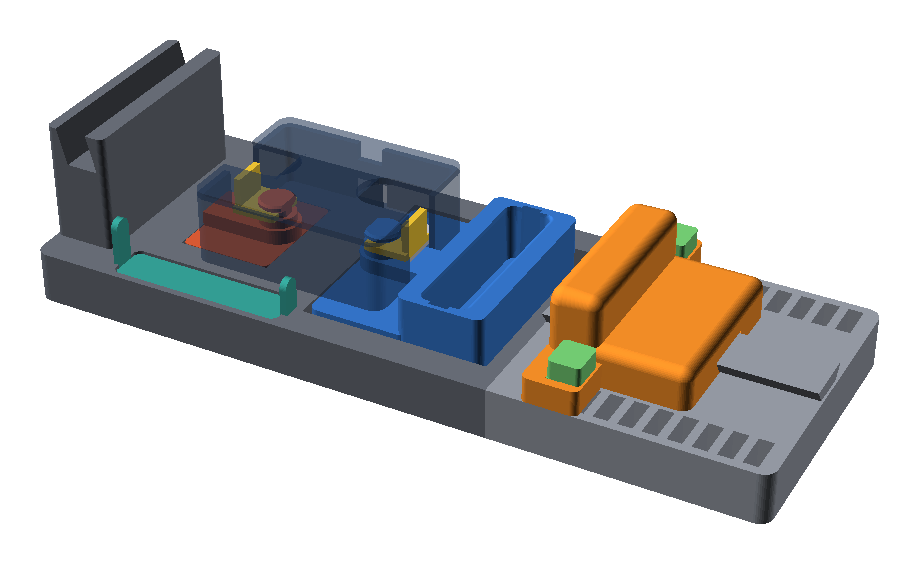
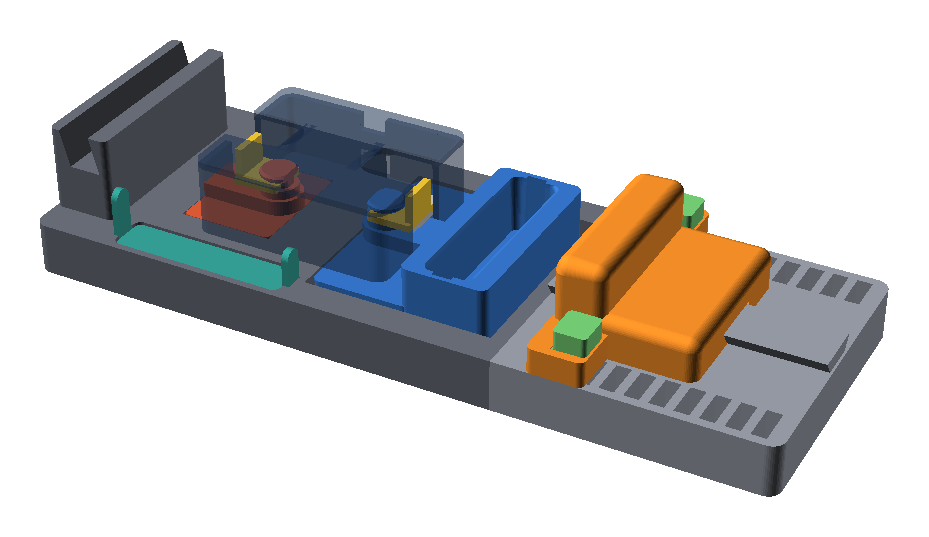
feat: lower the phone slot floor to Z = 15 mm
The stand is now 37 mm tall instead of 52 mm. The case hides the bottom of the phone only from viewpoints below 18 degrees elevation; an assertion keeps that below 20 degrees.

diff --git a/docs/src/design/index.md b/docs/src/design/index.md
@@ -79,9 +79,10 @@ When not in use, the stoppers stack in a 16 mm-deep well in the deck, on the
 
 ## Phone stand
 
-A 52 mm-tall stand across the far (−X) end of the base holds a phone running
-the Crimpdeq app. Its slot floor is 2 mm above the top of the case, so the
-case never hides the bottom of the screen. The slot is 14 mm wide, for a
+A 37 mm-tall stand across the far (−X) end of the base holds a phone running
+the Crimpdeq app. Its slot floor is at Z = 15 mm, 13 mm below the top of the
+case and about 40 mm behind it, so the case only hides the bottom of the phone
+when seen from less than 18° above the table. The slot is 14 mm wide, for a
 phone up to about 13 mm thick in its case, and 16 mm deep with a flat floor.
 It leans 15° away from the user, so the screen faces the hand, and is open at
 both sides, so a phone fits in portrait or landscape. The stand is 90 mm

diff --git a/AGENTS.md b/AGENTS.md
@@ -50,8 +50,9 @@
   compression under load.
 - Preserve switch and USB access on the open +Y side of the base.
 - Keep the tilted phone slot in its stand at the far (-X) end of the base,
-  with the slot floor above the case top, finger room by the stopper well,
-  outside the load path and clear of the hand at every rest position.
+  with its floor at Z = 15 mm so the case hides the phone only from viewpoints
+  below 20° elevation, finger room by the stopper well, outside the load path
+  and clear of the hand at every rest position.
 - Keep every part printable without supports.
 - Keep the base, anchor, grip, clips, rest, keys, phone and case collision-free
   except for explicitly modelled contact surfaces.

diff --git a/docs/src/build/stoppers-and-phone.md b/docs/src/build/stoppers-and-phone.md
@@ -25,9 +25,9 @@ When not in use, stack both stoppers in the well beside the case, tabs up.
 ![Phone in its slot](../images/phone.png)
 
 Stand your phone, in its case, in the slot on top of the stand at the far
-end of the base, in portrait or landscape. The slot sits above the case, so
-the whole screen stays in view, and leans back 15° so the screen faces you
-while you pull. It takes phones up to about 13 mm thick.
+end of the base, in portrait or landscape. The stand lifts it so the case
+doesn't hide the screen from where you sit, and the slot leans back 15° so
+the screen faces you while you pull. It takes phones up to about 13 mm thick.
 
 ## Check
 

diff --git a/README.md b/README.md
@@ -12,8 +12,8 @@ the other on a four-finger hangboard grip that the fingers pull toward the
 palm. The case itself floats clear of the base and never carries load.
 Drop-in stoppers give 25, 20, 15 and 10 mm edges, the palm rest slides on a
 rail and locks with two printed keys into one of nine hand openings, and a
-raised stand at the far end holds a phone running the Crimpdeq app above
-the case.
+raised stand at the far end holds a phone running the Crimpdeq app clear
+of the case.
 
 The project is standalone: it carries its own
 simplified reference of the Crimpdeq case interface and does not need the

diff --git a/docs/src/introduction.md b/docs/src/introduction.md
@@ -9,7 +9,7 @@ printed base, 1 mm above the deck. Printed lugs rise through the slots in
 the case into the two eyes of its 80 × 40 × 4 mm, 50 kg load cell: one on a
 fixed anchor block, one on a four-finger hangboard grip. The fingers pull the
 grip toward the palm, which pushes on an adjustable palm rest. A raised stand
-at the far end holds a phone running the Crimpdeq app above the case.
+at the far end holds a phone running the Crimpdeq app, raised clear of the case.
 
 Every part is 3D-printed. There are no bolts, pins, inserts or other
 hardware to buy.

diff --git a/docs/src/build/printing.md b/docs/src/build/printing.md
@@ -28,7 +28,7 @@ not fit together.
 > The base comes as two halves because it is 328 mm long and does not fit a
 > 256 mm bed, even diagonally. The front half is 223 mm long and the rear
 > half 116 mm; both are 122 mm wide. The phone stand makes the front half
-> 75 mm tall at one end, the tallest part on the plates.
+> 60 mm tall at one end, the tallest part on the plates.
 
 All parts are exported already oriented for printing. Don't rotate them or
 use "Lay on face". The keys print on their sides on purpose: they are then
